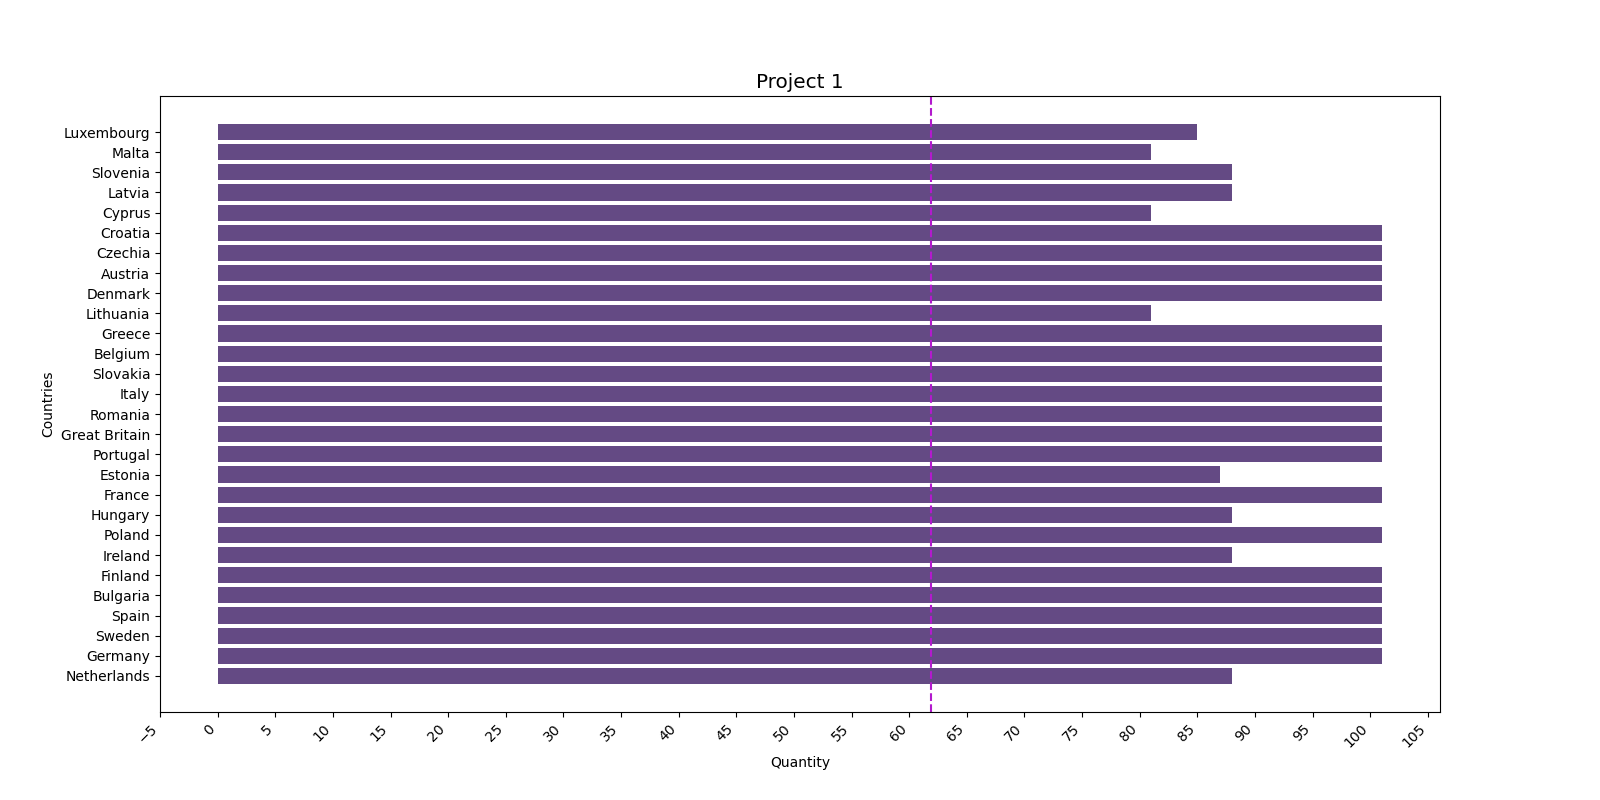
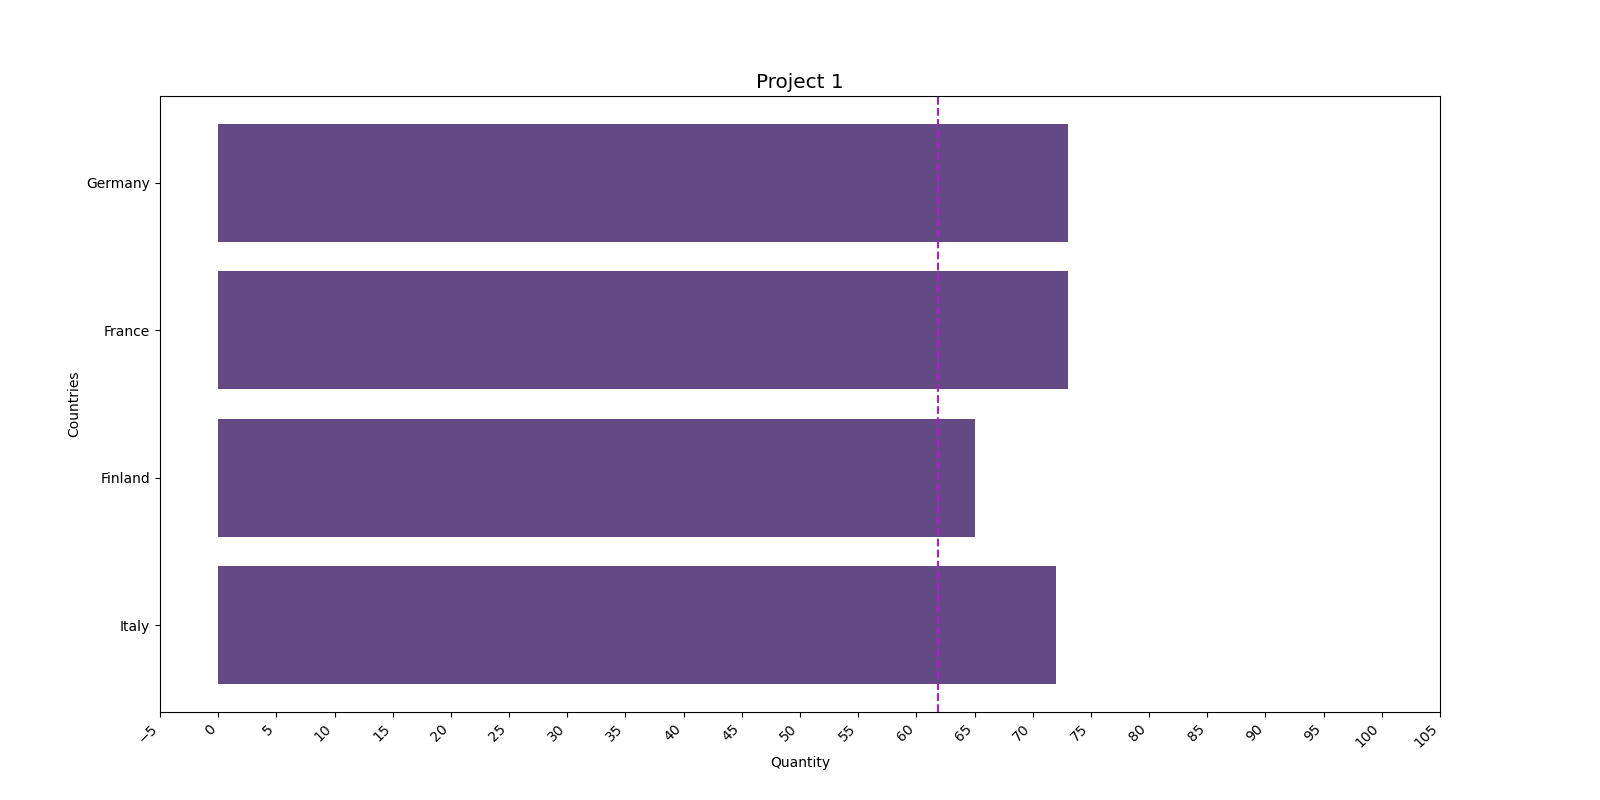
readme

diff --git a/p_reporting/m_reporting.py b/p_reporting/m_reporting.py
@@ -29,8 +29,8 @@ def export_table(raw_data_df, country) -> object:
 def visual_matplotlib(raw_data_df):
     print('Creating a chart...')
     quantity_mean = raw_data_df['Quantity'].mean()
-    list_countries = raw_data_df['Country'].tolist()
-    quantity = raw_data_df['Quantity'].tolist()
+    list_countries = raw_data_df['Country'].tail(5)
+    quantity = raw_data_df['Quantity'].tail(5)
     fig, ax = plt.subplots(figsize=(16, 8))
     ax.barh(list_countries, quantity, color='#644A84')
     plt.style.use('ggplot')

diff --git a/p_analysis/m_analysis.py b/p_analysis/m_analysis.py
@@ -1,5 +1,6 @@
 import pandas as pd
 
+
 def adding_columns(raw_data) -> object:
     print('Adding some new columns to dataframe')
     rows_counts = dict(raw_data['Job Title'].value_counts())
